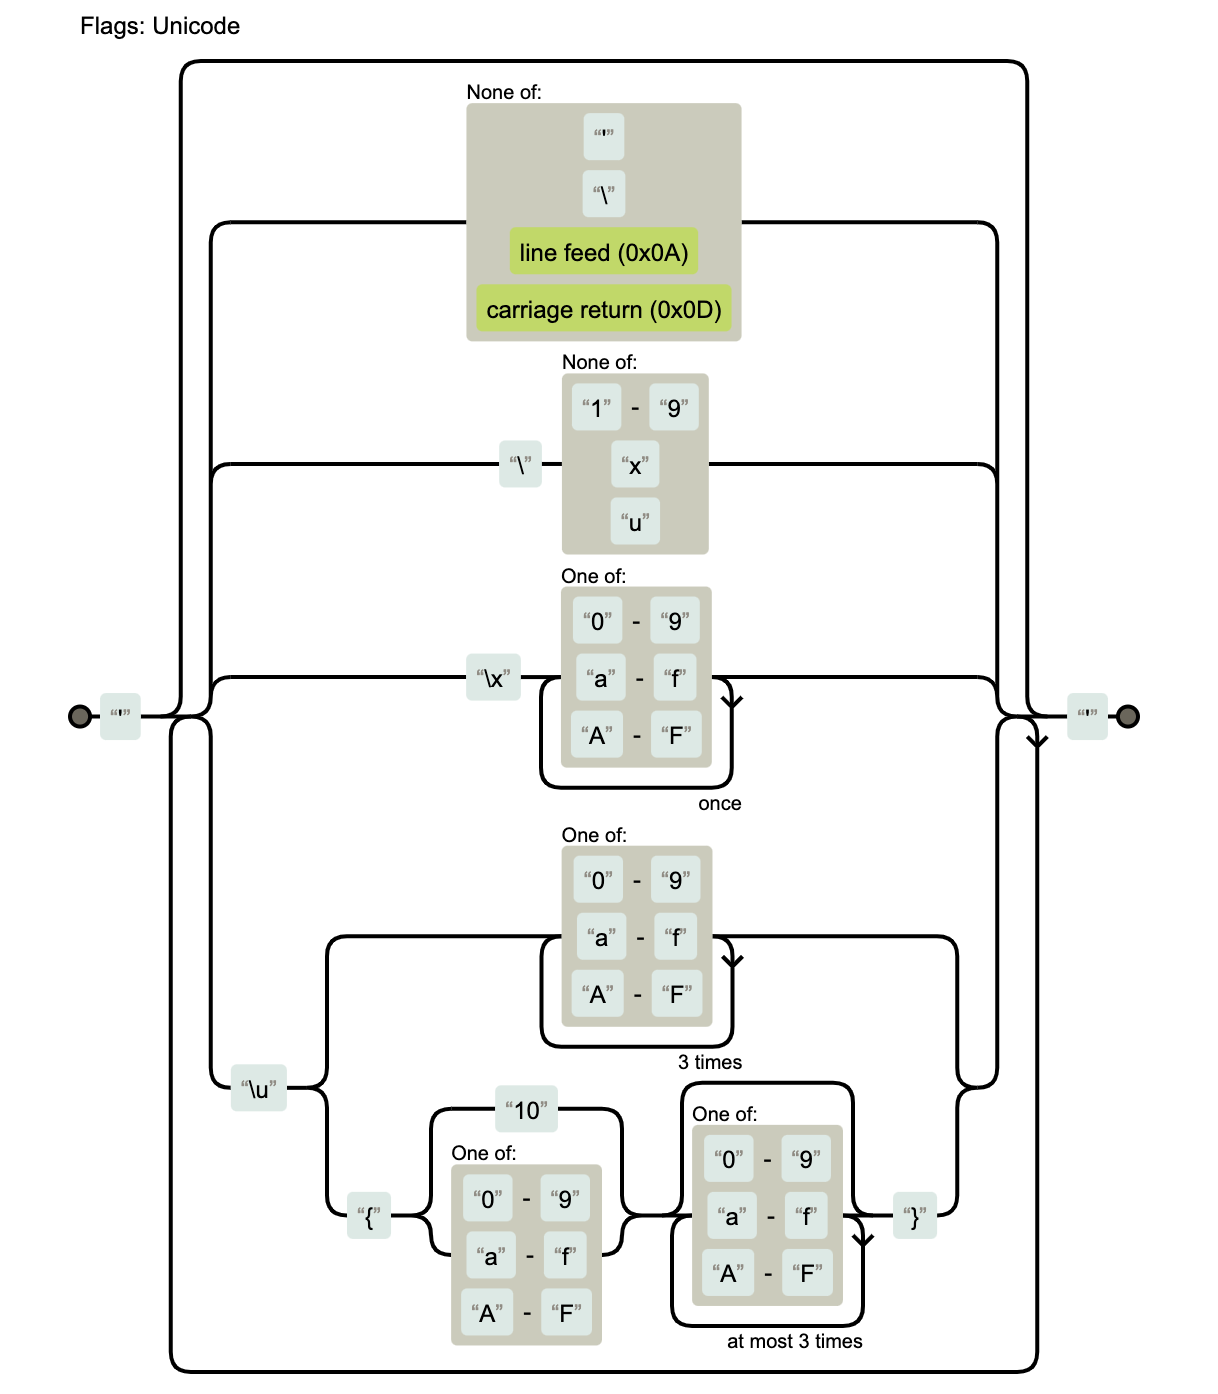
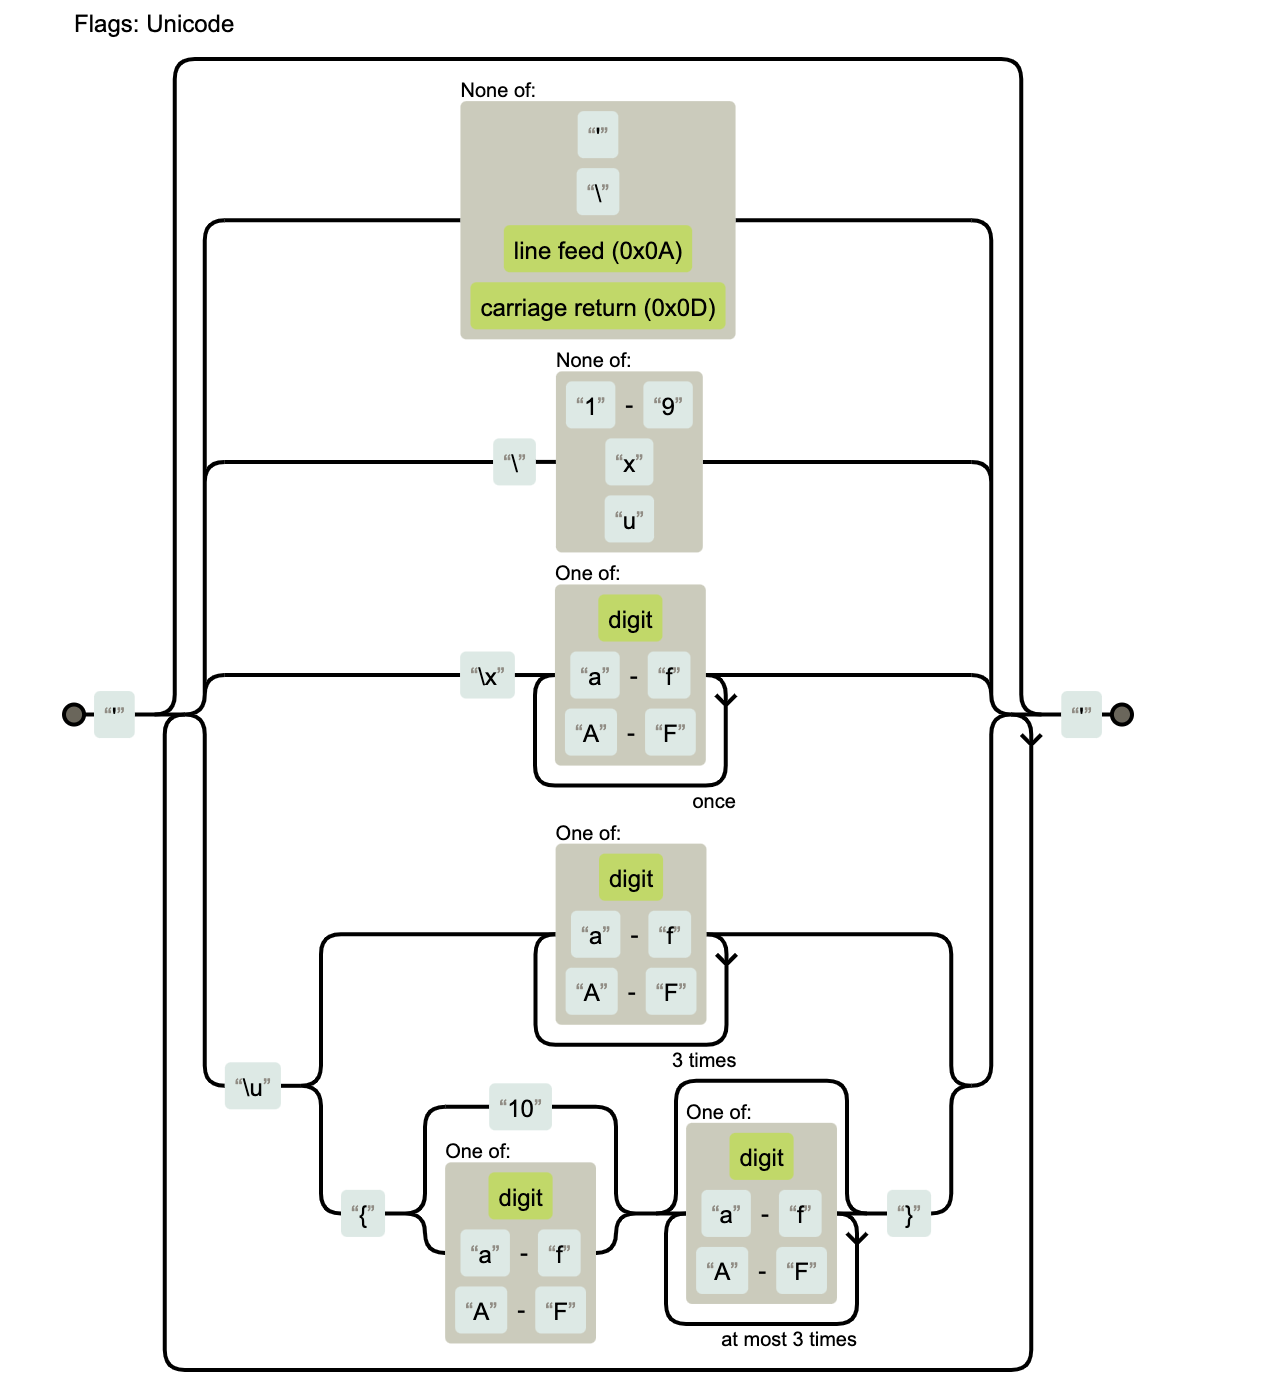
mosiya: change a little 03

Changed region(s): [[0.0312, 0.0, 0.936, 0.9914]]

diff --git a/week02/homework.md b/week02/homework.md
@@ -317,13 +317,13 @@ EscapeCharacter 的代码为
 整理化简得 DoubleStringCharacters 的正则为：
 
 ```js
-/"(?:[^"\\\n\r]|\\[^1-9xu]|\\x[0-9a-fA-F]{2}|\\u(?:[0-9a-fA-F]{4}|\{(?:10|[0-9a-fA-F])[0-9a-fA-F]{0,4}\}))*"/u
+/"(?:[^"\\\n\r]|\\[^1-9xu]|\\x[\da-fA-F]{2}|\\u(?:[\da-fA-F]{4}|\{(?:10|[\da-fA-F])[\da-fA-F]{0,4}\}))*"/u
 ```
 
 同理可得 SingleStringCharacters 的正则为：
 
 ```js
-/'(?:[^'\\\n\r]|\\[^1-9xu]|\\x[0-9a-fA-F]{2}|\\u(?:[0-9a-fA-F]{4}|\{(?:10|[0-9a-fA-F])[0-9a-fA-F]{0,4}\}))*'/u
+/'(?:[^'\\\n\r]|\\[^1-9xu]|\\x[\da-fA-F]{2}|\\u(?:[\da-fA-F]{4}|\{(?:10|[\da-fA-F])[\da-fA-F]{0,4}\}))*'/u
 ```
 
 最终的分析结果分别如下：
